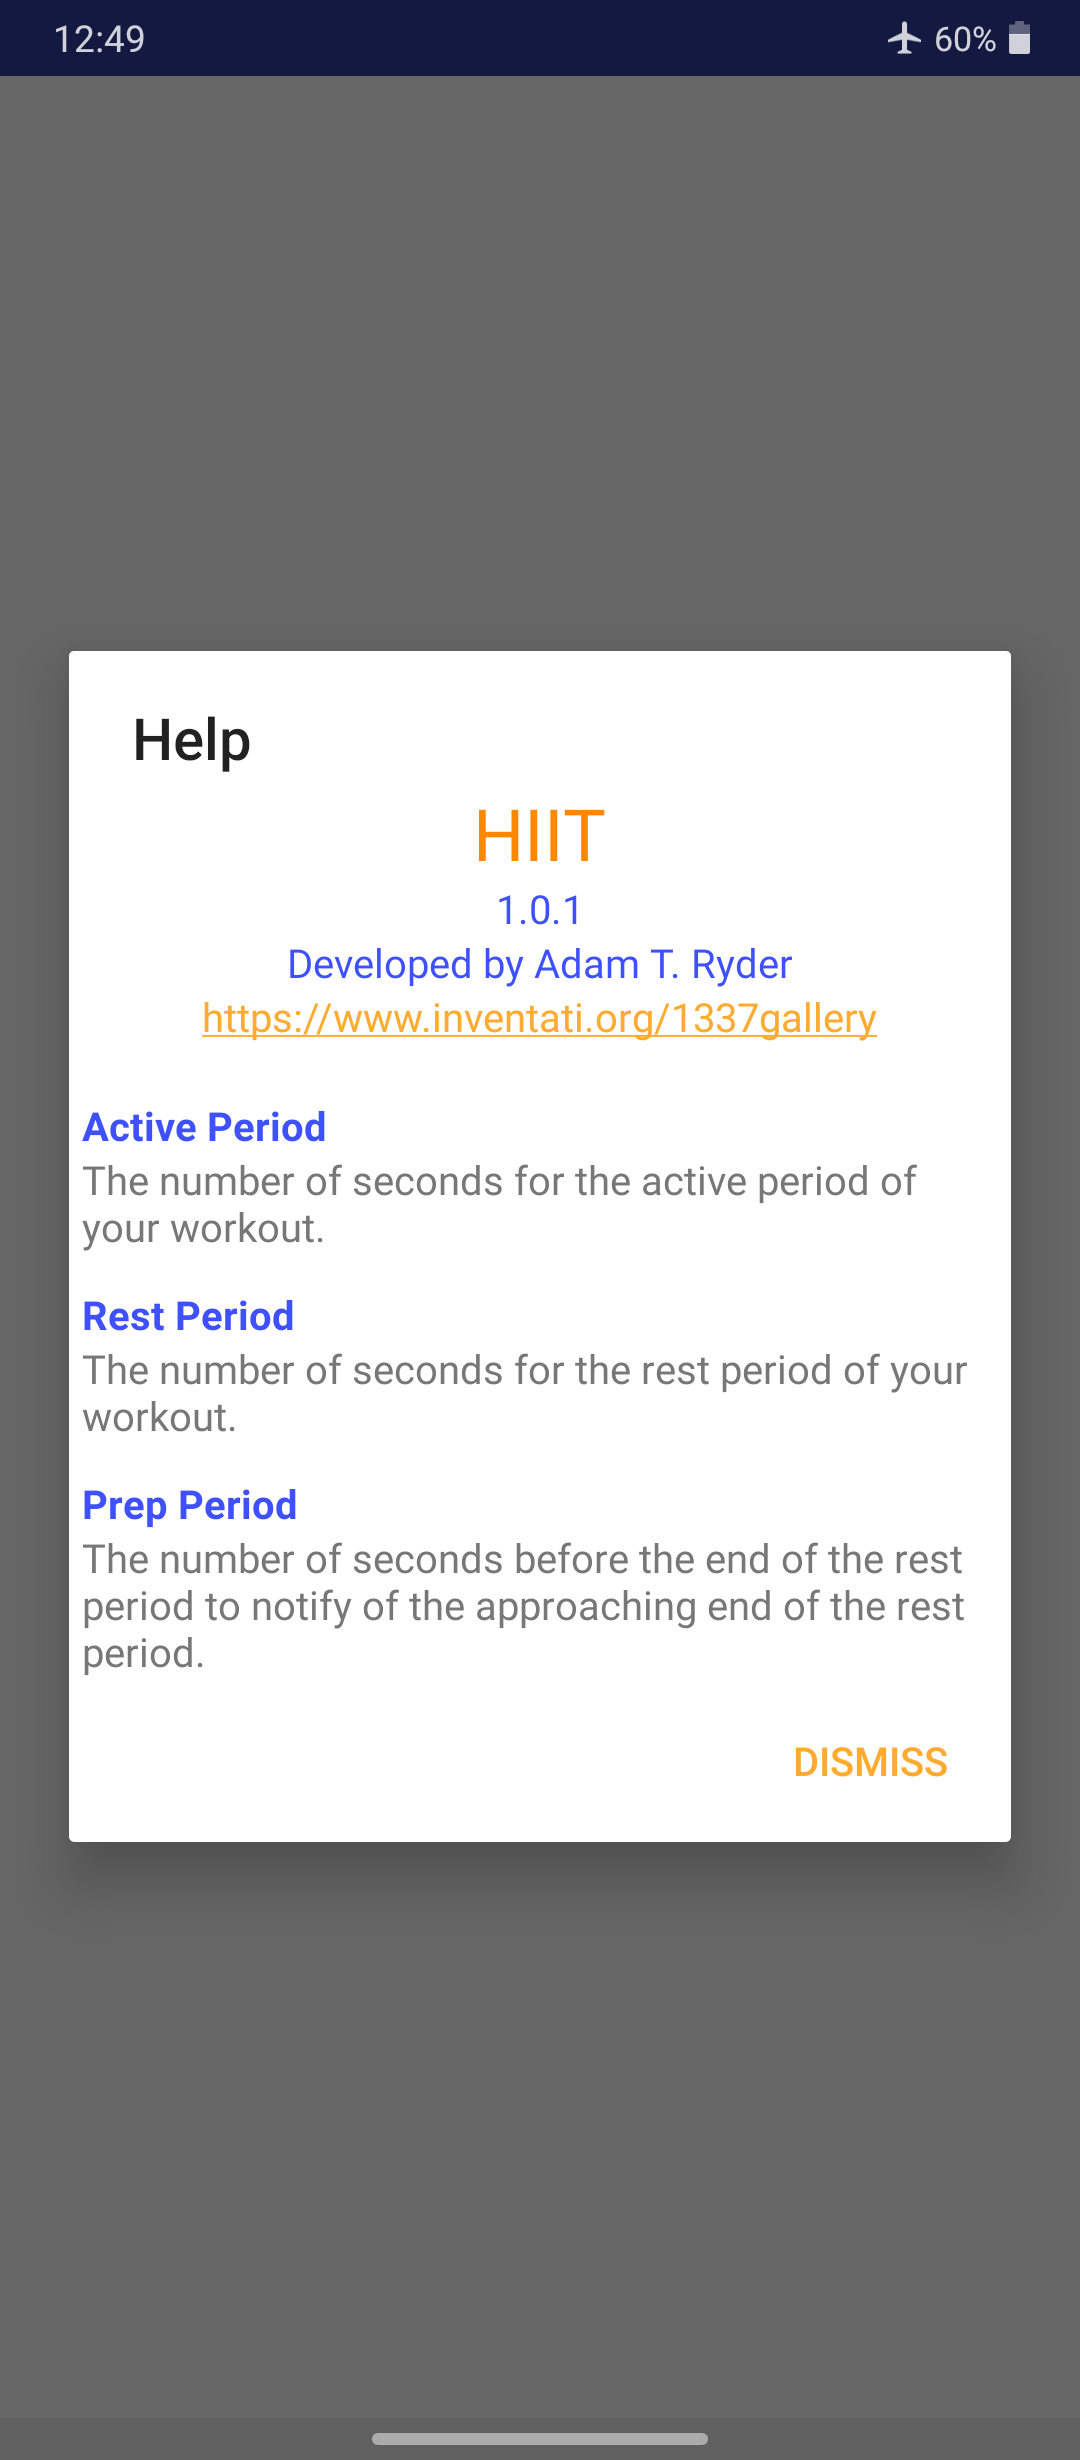
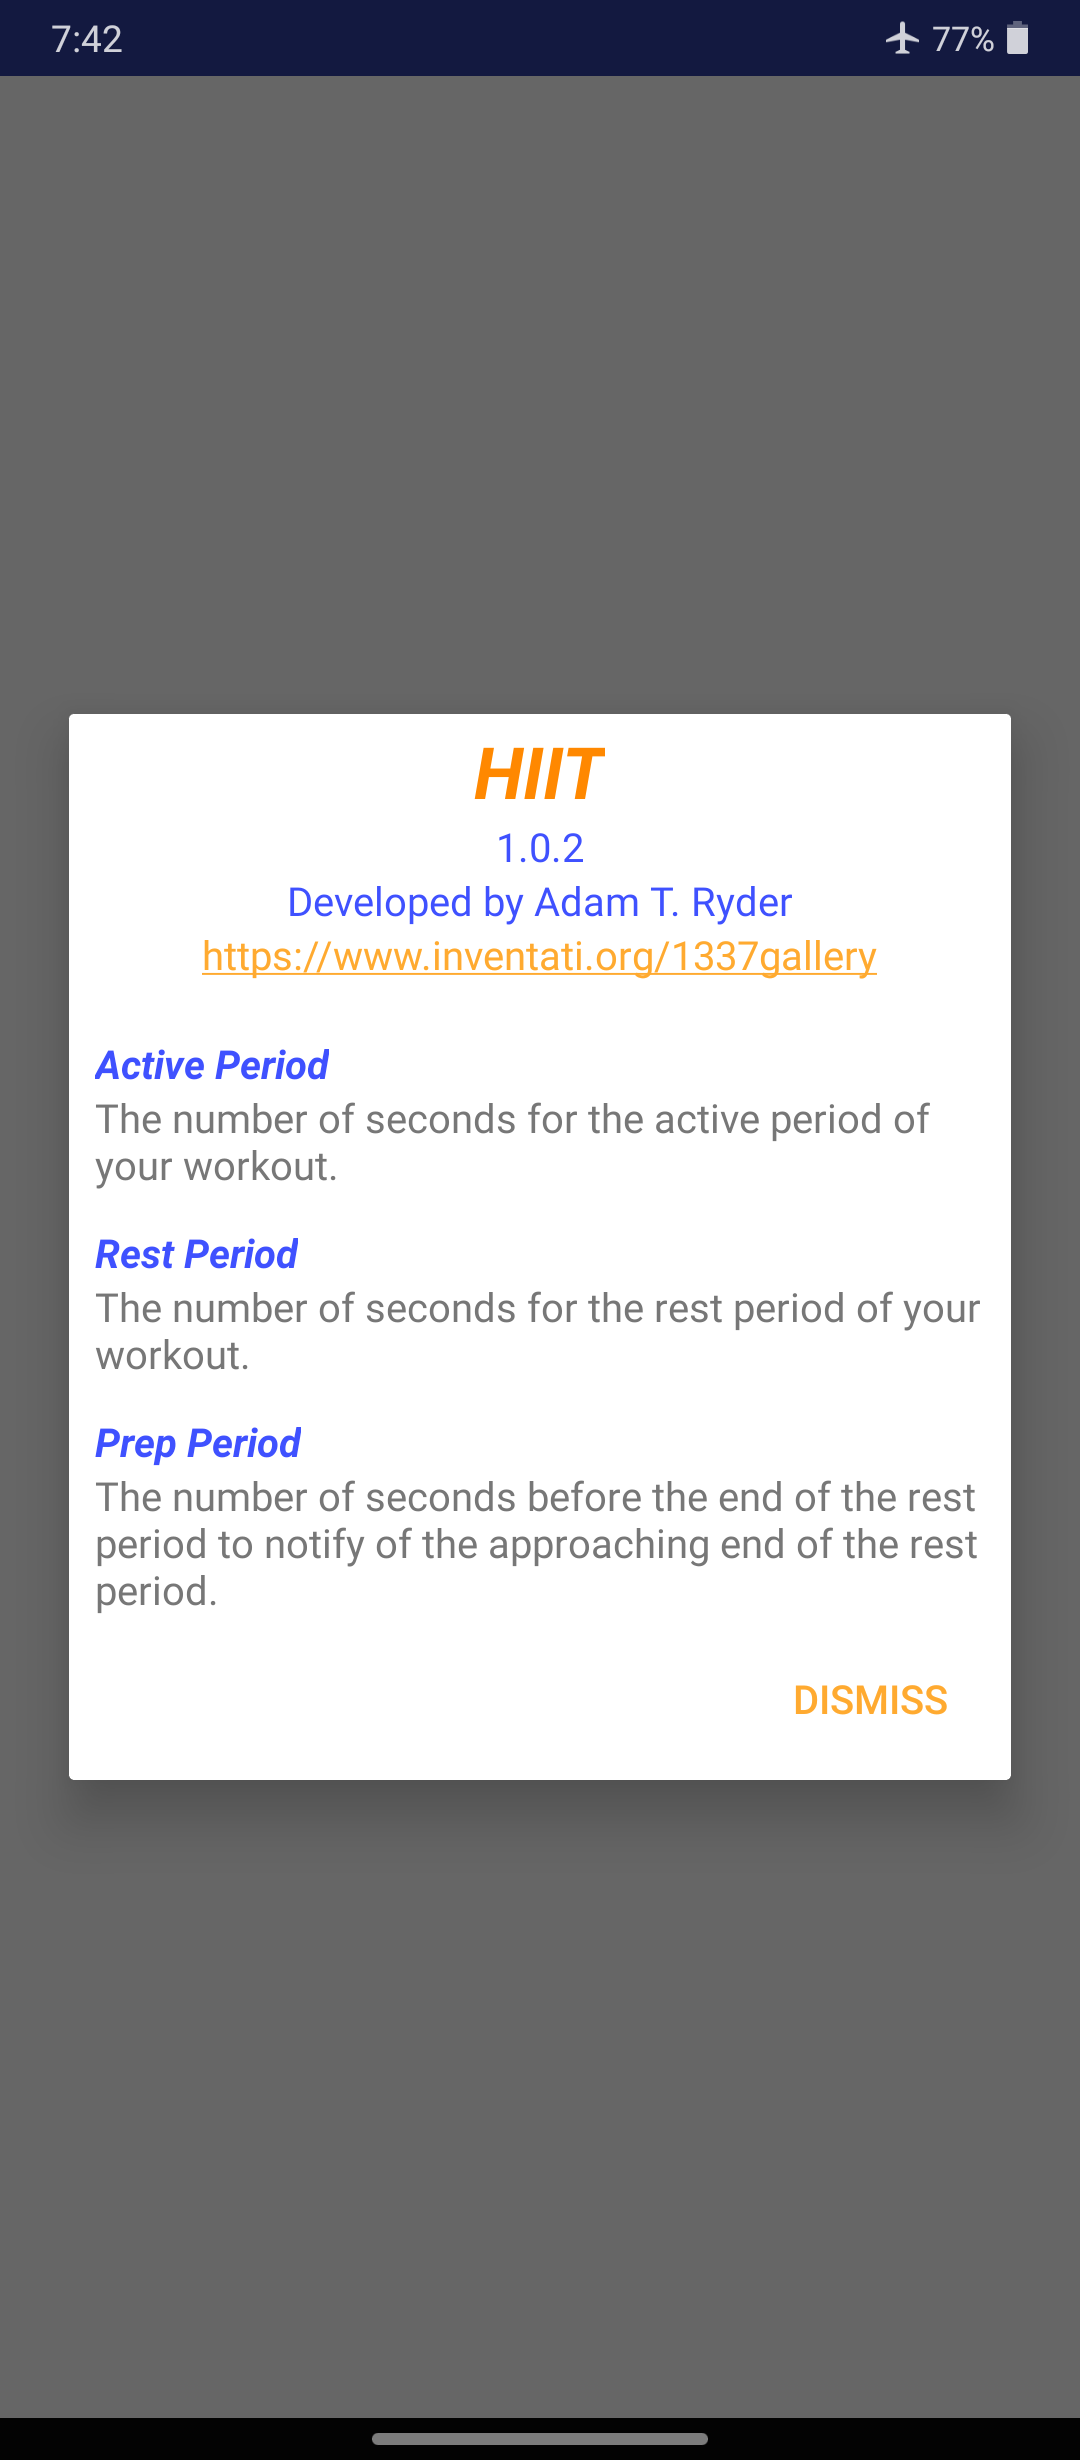
Aesthetic improvements to the help menu.

diff --git a/app/src/main/java/com/atr/hiit/Help.java b/app/src/main/java/com/atr/hiit/Help.java
@@ -50,7 +50,7 @@ public class Help extends DialogFragment {
             }
         }
 
-        builder.setTitle(getText(R.string.help)).setView(view).setPositiveButton(getText(R.string.dismiss), new DialogInterface.OnClickListener() {
+        builder.setView(view).setPositiveButton(getText(R.string.dismiss), new DialogInterface.OnClickListener() {
                     @Override
                     public void onClick(DialogInterface dialog, int id) {
                         dismiss();
